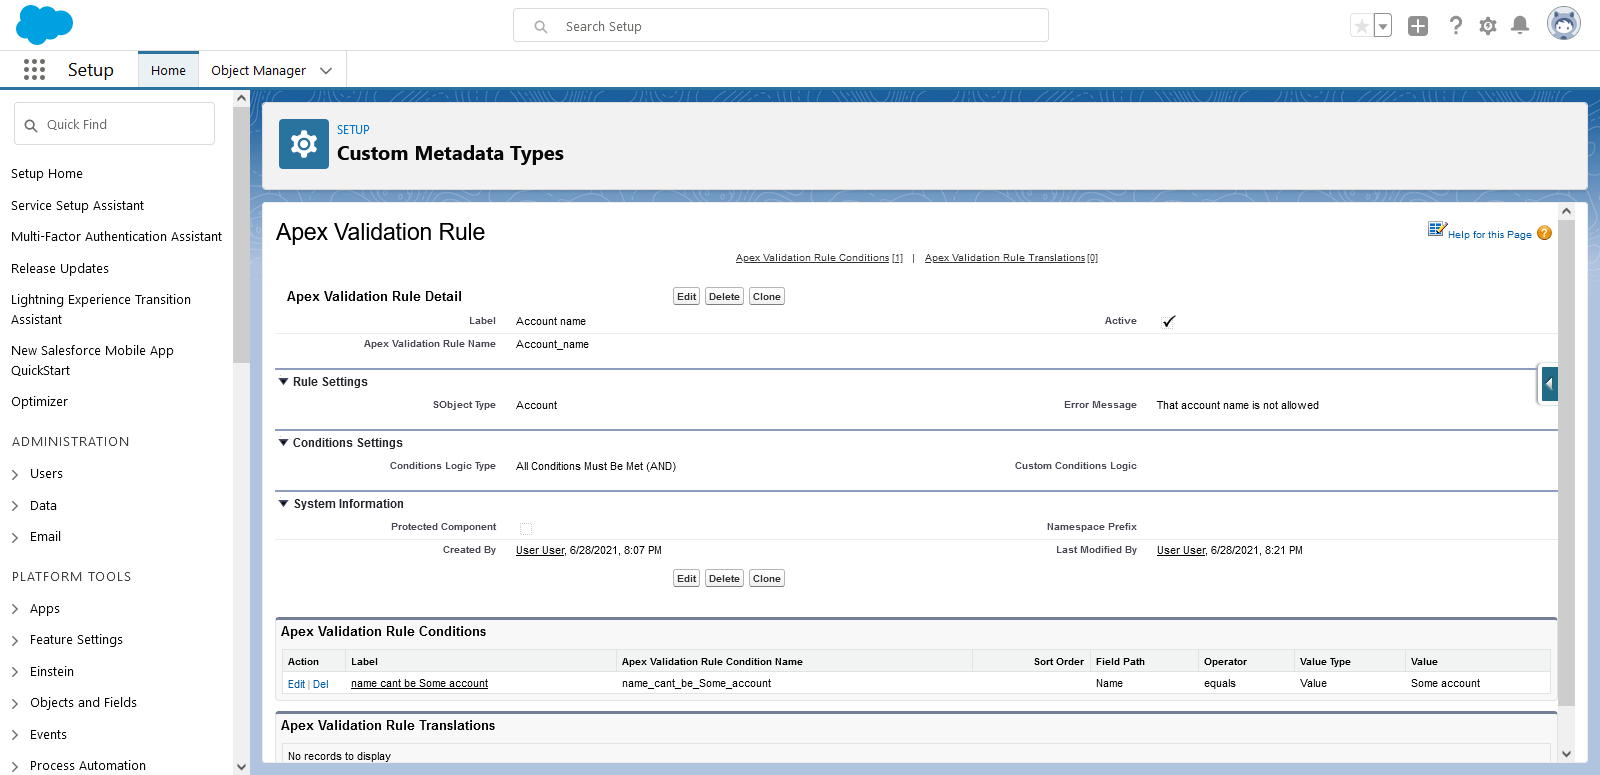
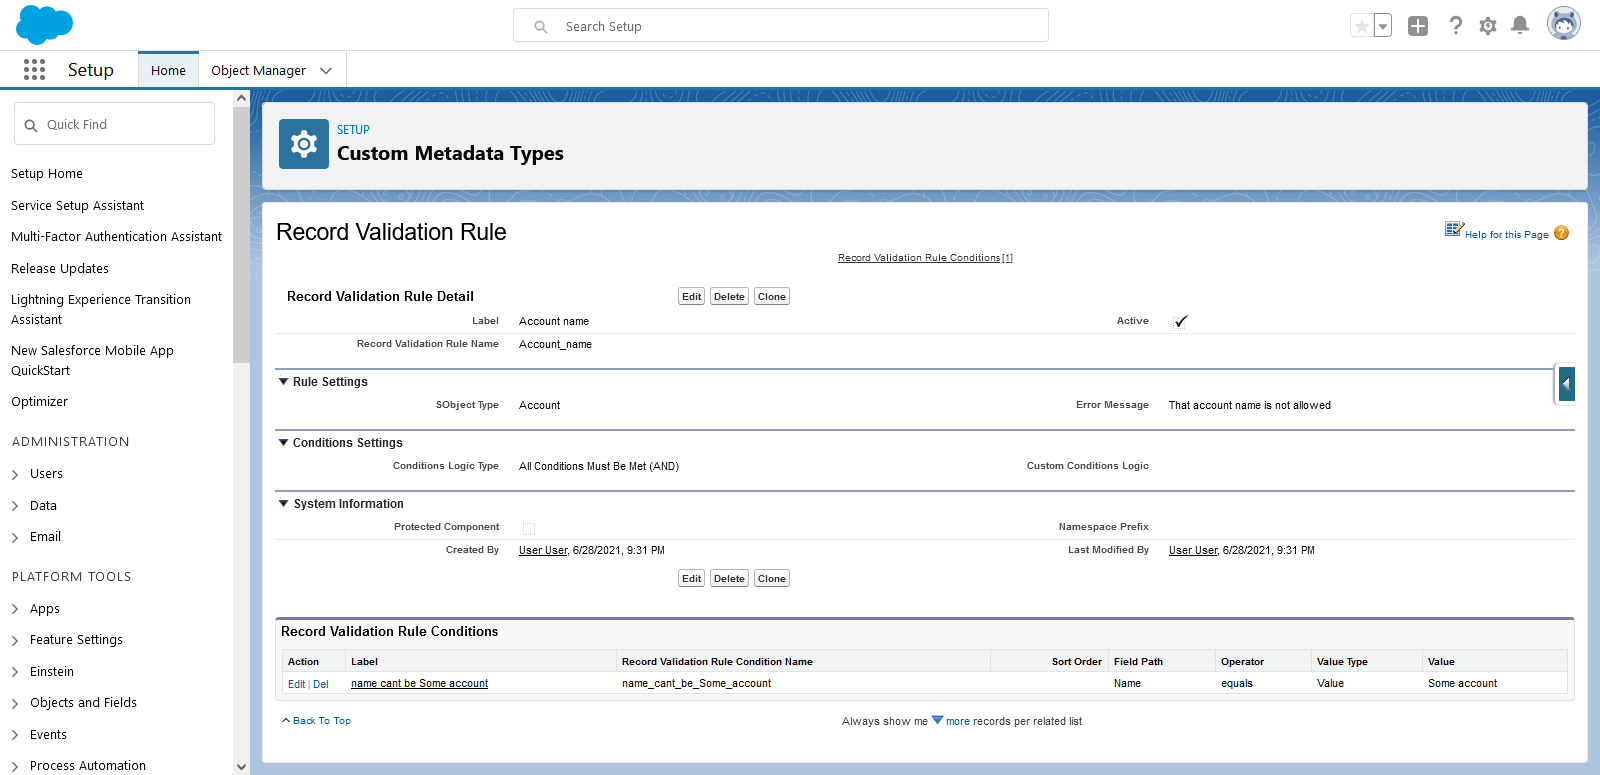
Replaced 'Apex' prefix with 'Record'

diff --git a/README.md b/README.md
@@ -6,7 +6,7 @@
 
 An Apex library for validating field values on `SObject` records, using configurable custom metadata types
 
-1. Create validation rules via `ApexValidationRule__mdt` custom metadata type
+1. Create validation rules via `RecordValidationRule__mdt` custom metadata type
 2. Call `RecordValidator` class in your trigger handler or class to validate the your records pass your validation rules
 
 This is useful in scenarios where standard validation rules cannot be used
